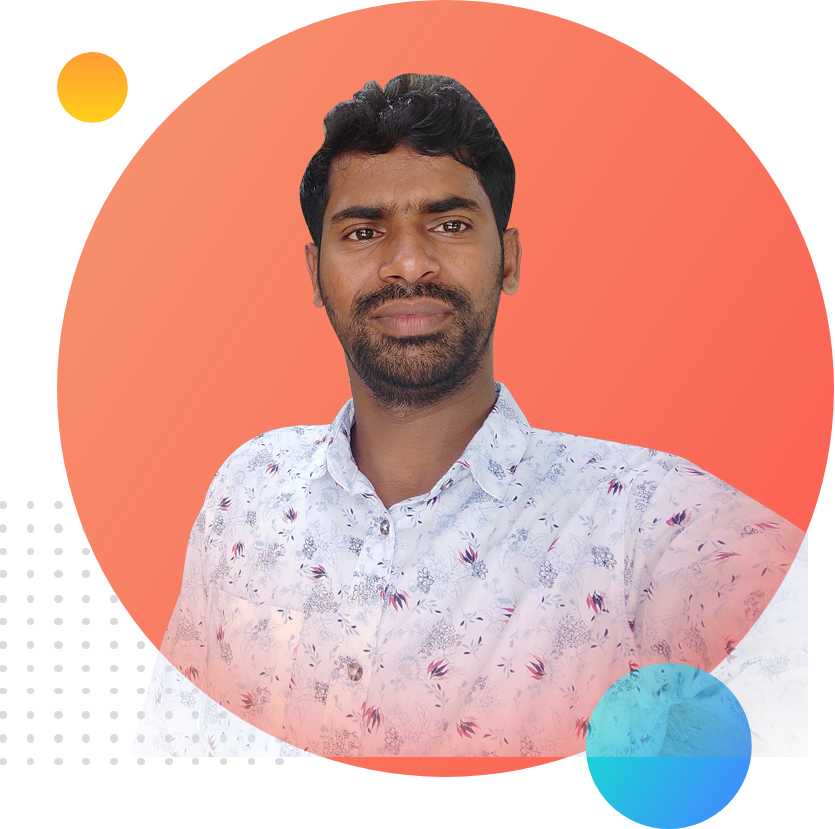
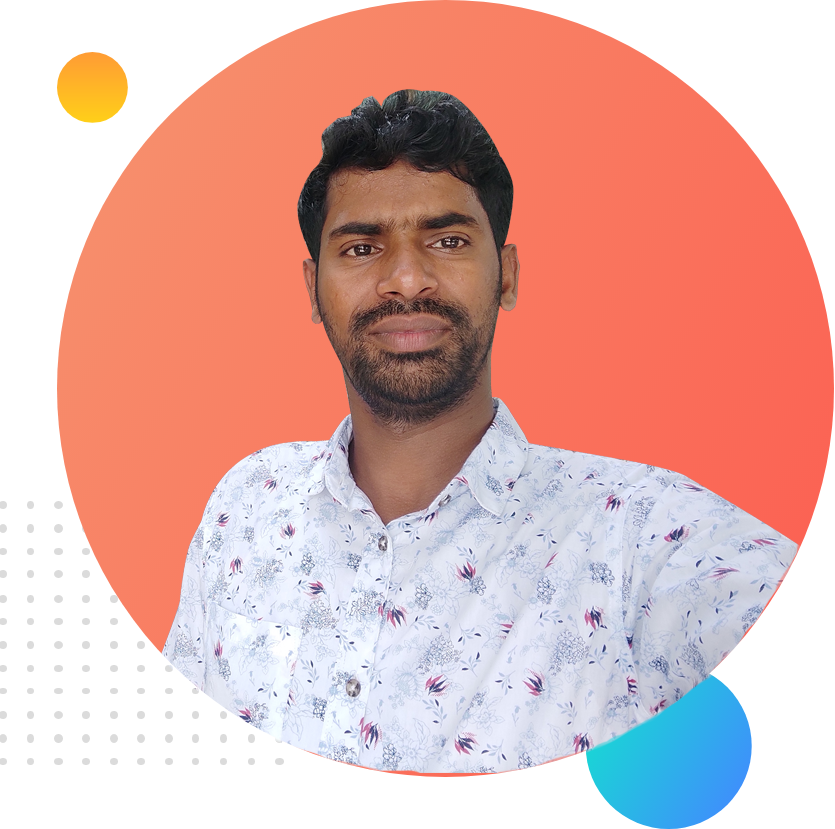
image update

Changed region(s): [[0.1868, 0.0905, 0.9653, 0.9349]]

diff --git a/index.html b/index.html
@@ -31,7 +31,7 @@
     <section class="dream-area flexible-container">
 
         <div class="half-width">
-            <img src="images/jhankar2.png" alt="">
+            <img src="images/hasanali2.png" alt="">
         </div>
 
         <div class="half-width">
